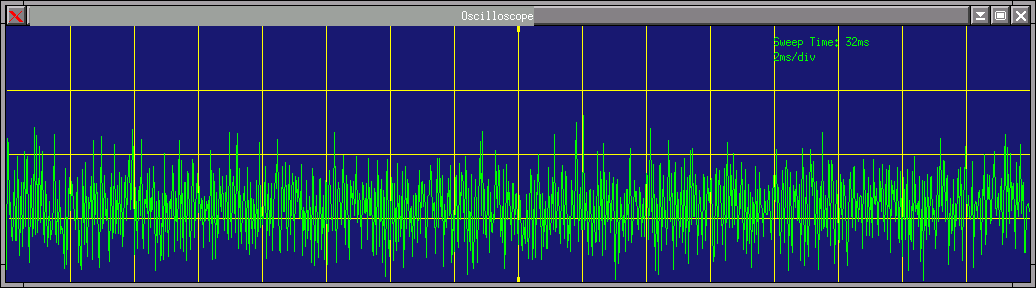
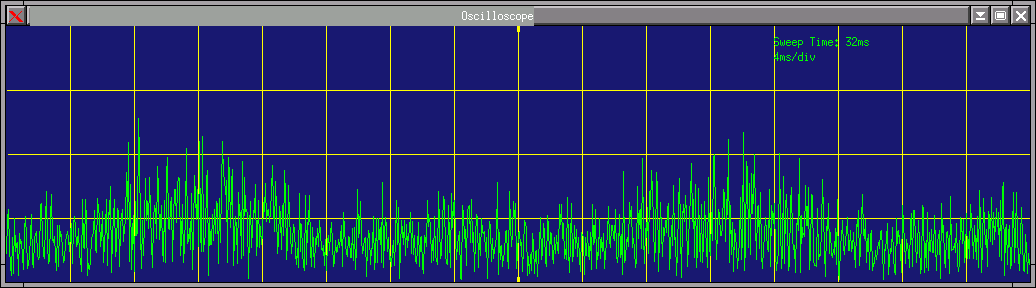
Corrected wrong annotation on Oscilloscope display.

Changed region(s): [[0.0, 0.4688, 1.0, 0.9375]]

diff --git a/src/SignalAnalyzer.cc b/src/SignalAnalyzer.cc
@@ -248,7 +248,7 @@ void SignalAnalyzer::initializeX(void)
   // Create a "Graphics Context".
   graphicsContext = XCreateGC(displayPtr,window,0,NULL);
 
-  // Tell the GC we draw using the white color.
+  // First-time foreground is whit.
   XSetForeground(displayPtr,graphicsContext,whiteColor);
 
   switch (displayType)			
@@ -317,7 +317,7 @@ void SignalAnalyzer::initializeX(void)
 
     blue - The blue contribution [0,255].
 
- Outputs:
+  Outputs:
 
     value = The 16-bit representation of the rgb value.
 
@@ -500,7 +500,7 @@ void SignalAnalyzer::plotSignalMagnitude(
 
   XDrawString(displayPtr,window,graphicsContext,
               768,35,
-              "2ms/div",7);
+              "4ms/div",7);
   //_/_/_/_/_/_/_/_/_/_/_/_/_/_/_/_/_/_/_/_/_/_/_/_/
 
   // Plot the signal.
